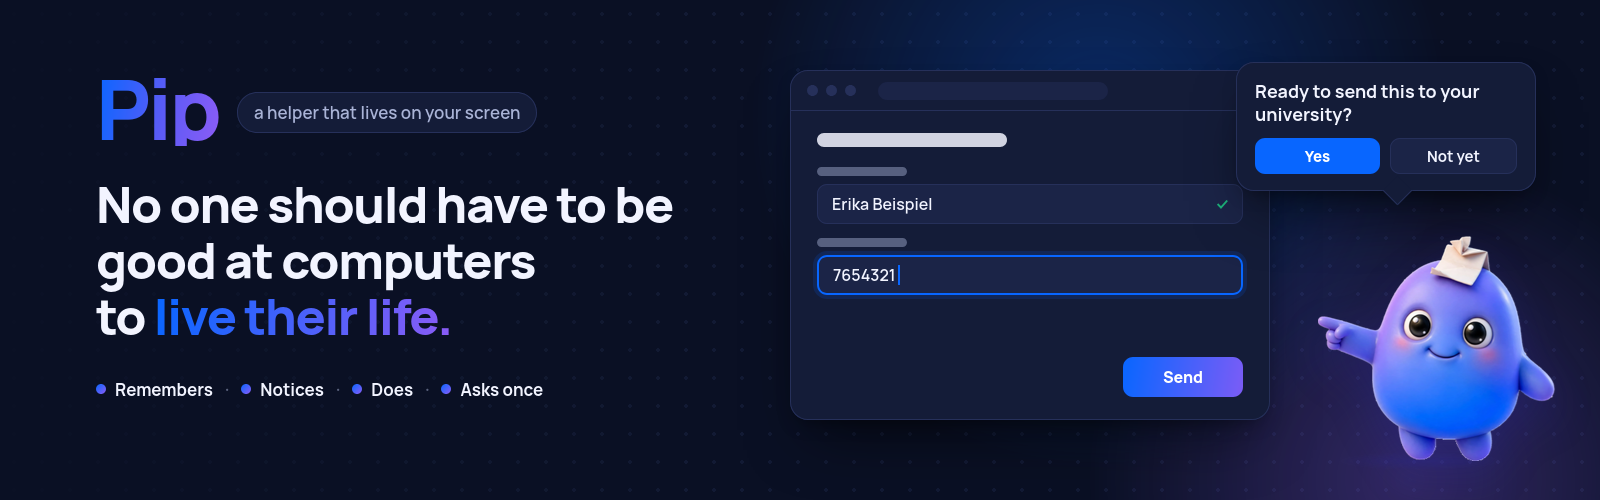
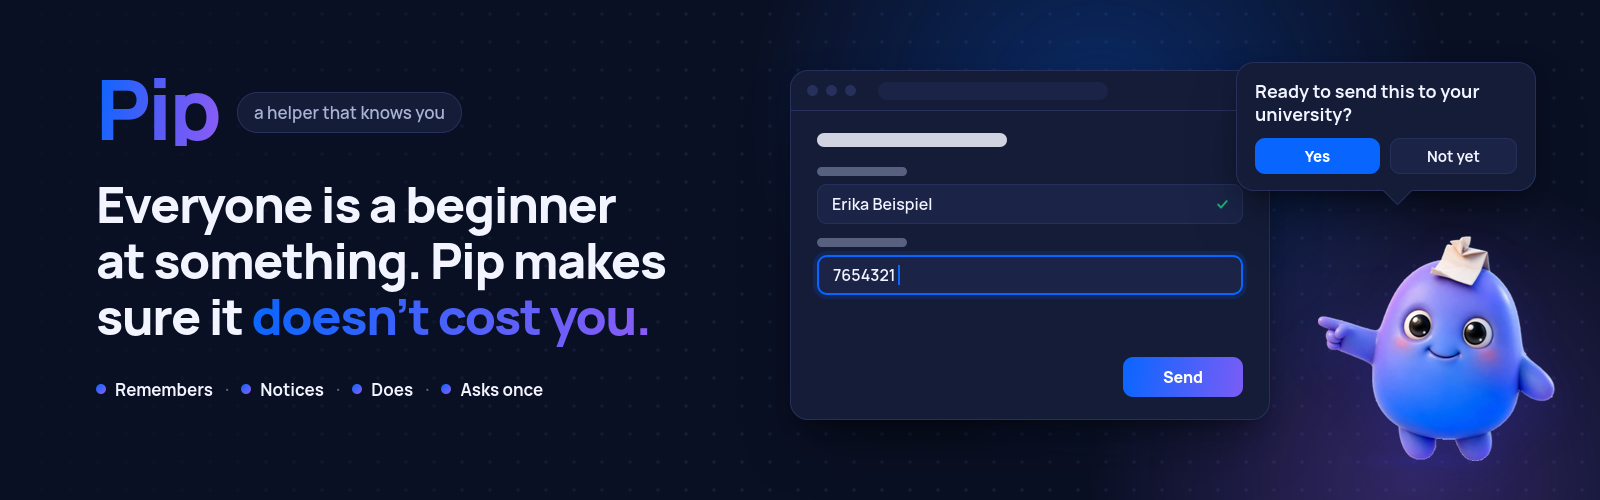
README: new mission, everyone is a beginner at something

Changed region(s): [[0.0625, 0.36, 0.4375, 0.69], [0.2188, 0.21, 0.3438, 0.24]]

diff --git a/design/readme/src/banner.html b/design/readme/src/banner.html
@@ -122,9 +122,9 @@
   <div class="text">
     <div class="brand">
       <div class="word">Pip</div>
-      <div class="tag">a helper that lives on your screen</div>
+      <div class="tag">a helper that knows you</div>
     </div>
-    <h1>No one should have to be<br>good at computers<br>to <em>live their life.</em></h1>
+    <h1>Everyone is a beginner<br>at something. Pip makes<br>sure it <em>doesn't cost you.</em></h1>
     <div class="steps">
       <span class="step"><i></i>Remembers</span><span class="sep">·</span>
       <span class="step"><i></i>Notices</span><span class="sep">·</span>

diff --git a/README.md b/README.md
@@ -1,16 +1,16 @@
 <p align="center">
   <picture>
     <source media="(prefers-color-scheme: dark)" srcset="design/readme/banner-dark.png">
-    <img src="design/readme/banner.png" alt="Pip, a small blue helper, points at a web form and asks: Ready to send this to your university? Headline: No one should have to be good at computers to live their life." width="100%">
+    <img src="design/readme/banner.png" alt="Pip, a small blue helper, points at a web form and asks: Ready to send this to your university? Headline: Everyone is a beginner at something. Pip makes sure it doesn't cost you." width="100%">
   </picture>
 </p>
 
 <h1 align="center">Pip</h1>
 
 <p align="center">
-  <b>No one should have to be good at computers to live their life.</b><br>
-  Pip is a personal assistant that lives on your screen. It knows you, notices what's coming,<br>
-  and does the computer work for you. It asks only once, before anything leaves your computer.<br>
+  <b>Everyone is a beginner at something. Pip makes sure it doesn't cost you.</b><br>
+  Pip is a personal assistant that knows you, notices what's coming, and gets things done with you:<br>
+  letters, claims, forms, deadlines, on any screen. It asks only once, before anything leaves your computer.<br>
   <sub>Powered by Meta's models: <b>Muse Spark</b>, <b>SAM 3.1</b>, <b>Muse Voice</b>, <b>Muse Image</b> and the open-weights <b>Muse Glimmer</b>.</sub>
 </p>
 
@@ -36,22 +36,22 @@
 
 ## Why Pip exists
 
-Computers were supposed to make life easier. For many people, they made it harder.
+Life is full of things nobody ever taught you how to do. Claiming money you are owed. Answering a letter from an
+office. Insurance, taxes, a move, an application, a deadline hidden on page two. Each one needs knowledge you don't
+have and time you don't want to spend, so you put it off, or you get it wrong, or you give up.
 
-Almost everything that matters now happens on a screen: your insurance, your studies, your job, your money, your
-appointments. If you are good with computers, each of these takes a few minutes. If you are not, each one is a wall.
-And the digital world quietly expects everyone to climb it alone.
+Everyone is a beginner at something. A software engineer can be lost with a tax form. A nurse can be lost with a
+university portal. Someone new to a country can be lost with all of it. And people who are ill, tired or older lose
+the most, because they have the least strength left. The cost is real: money nobody claims, deadlines nobody
+notices, chances that quietly pass.
 
-Billions of people are left behind this way: people who are ill or tired, older people, people with disabilities,
-people new to a country, people who simply never learned. They don't lack intelligence. They lack a helper who knows
-their life and handles the screen for them.
+**Pip is the helper who knows you and knows how.** It remembers what matters about you, notices what's coming before
+you do, and does the work with you on your own screen. You stay in charge: Pip asks once, before anything leaves
+your computer.
 
-**We think it should be the other way around: you shouldn't have to be good at computers. The computer should be
-good at helping you.** That is Pip.
-
-My mom is one of these people. She once lost money because a document was issued two days late. It was a deadline
-from her health insurer, and nobody told her. She was ill, tired, and not a computer person. **Pip is the helper I
-wish she had had.**
+It started with my mom. She once lost money because a document was issued two days late. It was a deadline from her
+health insurer, and nobody told her. She was ill, tired, and nobody was watching the date for her.
+**Pip is the helper I wish she had had, and the one I want for myself.**
 
 ## Meet Pip
 
@@ -94,7 +94,8 @@ helps. It works with the programs and websites you already use, on your real scr
 **Pip is for you if**
 
 - ✅ letters and online forms make you tired before you even start
-- ✅ you have missed a date before, because nobody reminded you
+- ✅ you have missed a date or a claim before, because nobody reminded you
+- ✅ you are great at your job, but insurance, taxes and claims are not your thing
 - ✅ you help a parent or a friend with their paperwork, and you can't always be there
 - ✅ you are new to a country and the forms are not in your language
 
@@ -250,7 +251,7 @@ Architecture, target finding, the gate in detail and the full eval: **[docs/TECH
 ## Built for the Meta Global AI Developer Hackathon
 
 Pip was built from October 26 to November 4, 2026, in the **Indie track**, theme **"Build for your world"**. My
-world is a family where not everyone is good with computers.
+world is a family where everyone is a beginner at something, and nobody should lose out because of it.
 
 - **Impact:** a helper for everyone the digital world leaves behind.
 - **Meta AI at the core:** Muse Spark thinks and sees, SAM 3.1 finds the buttons, Muse Voice Transcribe listens,
